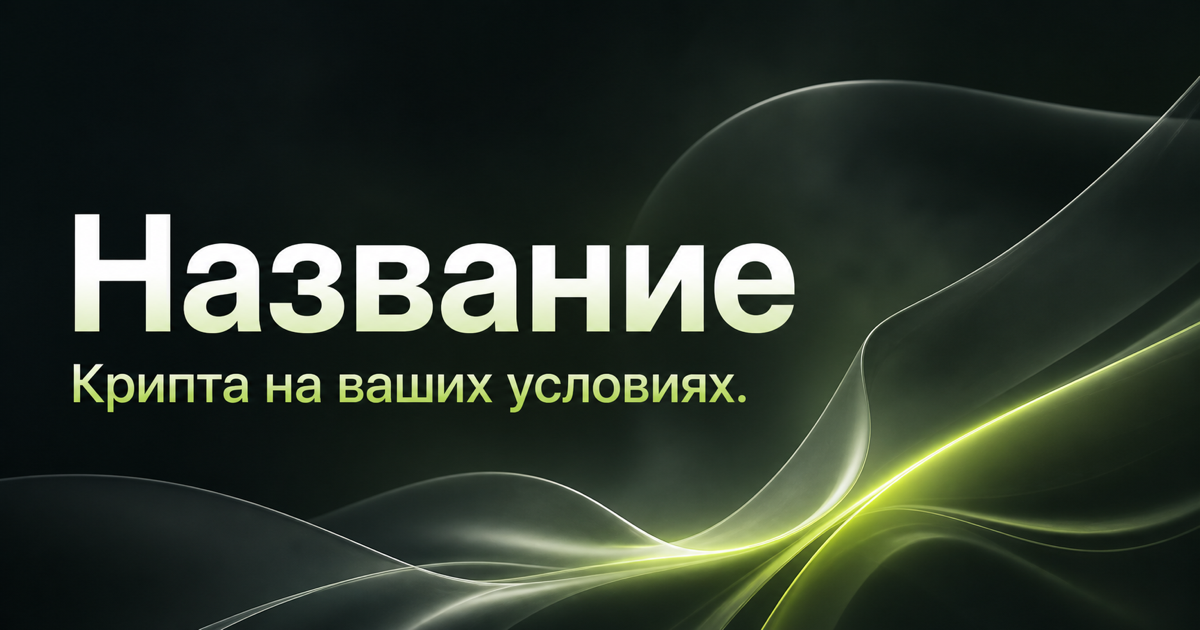
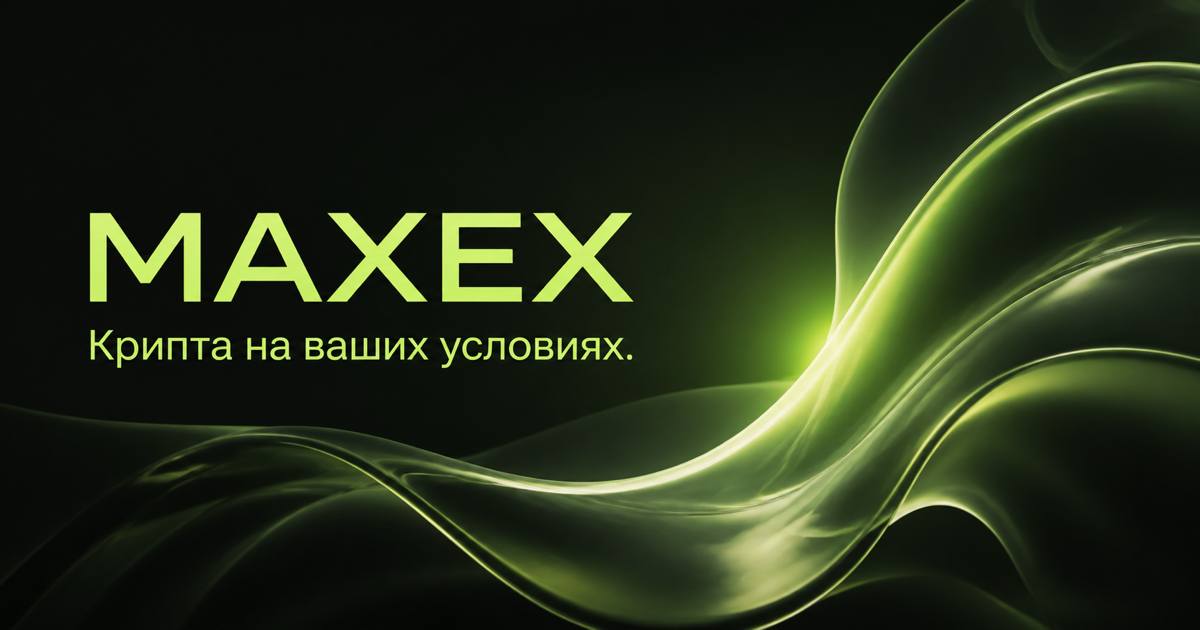
Rename demo brand to MAXEX

diff --git a/index.html b/index.html
@@ -6,7 +6,15 @@
     <meta name="robots" content="noindex,nofollow,noarchive,nosnippet,noimageindex" />
     <meta name="googlebot" content="noindex,nofollow,noarchive,nosnippet,noimageindex" />
     <meta name="description" content="Статическая демонстрация интерфейса криптообменника." />
-    <title>Название — демонстрация обменника</title>
+    <meta property="og:title" content="MAXEX — обмен криптовалюты" />
+    <meta property="og:description" content="Крипта на ваших условиях. Прозрачный курс и поддержка оператора." />
+    <meta property="og:image" content="https://kibosh13.github.io/crypto-obmen-demo/assets/og.png" />
+    <meta property="og:type" content="website" />
+    <meta name="twitter:card" content="summary_large_image" />
+    <meta name="twitter:title" content="MAXEX — обмен криптовалюты" />
+    <meta name="twitter:description" content="Крипта на ваших условиях. Прозрачный курс и поддержка оператора." />
+    <meta name="twitter:image" content="https://kibosh13.github.io/crypto-obmen-demo/assets/og.png" />
+    <title>MAXEX — демонстрация обменника</title>
     <link rel="icon" href="./assets/favicon.svg" />
     <link rel="stylesheet" href="./styles.css" />
   </head>
@@ -14,7 +22,7 @@
     <main class="site-shell">
       <div class="hero-art" aria-hidden="true"></div>
       <header class="header page-width">
-        <a class="brand" href="#top" aria-label="Название обменника"><i>Н</i><span>Название</span></a>
+        <a class="brand" href="#top" aria-label="MAXEX — обмен криптовалюты"><i>M</i><span>MAXEX</span></a>
         <nav aria-label="Основная навигация">
           <a href="#exchange">Обмен</a><a href="#how">Как это работает</a><a href="#rates">Курсы</a>
         </nav>
@@ -44,7 +52,7 @@
 
       <section class="light-surface">
         <section class="benefits page-width">
-          <div class="section-heading"><small>Почему «Название»</small><h2>Результат известен<br />до начала сделки.</h2><p>В рабочей версии каждую заявку сопровождает оператор, а условия сохраняются в защищённой базе.</p></div>
+          <div class="section-heading"><small>Почему MAXEX</small><h2>Результат известен<br />до начала сделки.</h2><p>В рабочей версии каждую заявку сопровождает оператор, а условия сохраняются в защищённой базе.</p></div>
           <div class="benefit-grid"><article><span>01</span><b>◇</b><h3>Прозрачный расчёт</h3><p>Курс, комиссия и итоговая сумма видны до отправки заявки.</p></article><article><span>02</span><b>◉</b><h3>Человек на связи</h3><p>Оператор уточняет детали и сопровождает обмен на каждом шаге.</p></article><article><span>03</span><b>✓</b><h3>Контроль сделки</h3><p>Обмен начинается только после подтверждения условий клиентом.</p></article></div>
         </section>
 
@@ -55,7 +63,7 @@
         <section class="cta page-width"><div><small>Особый запрос?</small><h2>Обсудим индивидуальный курс и удобный формат обмена.</h2><p>В полной версии оператор предложит решение под вашу сумму и направление.</p><button id="openModal2" type="button">Посмотреть форму <span>→</span></button></div><div class="orbit" aria-hidden="true"><i></i><i></i><i></i></div></section>
       </section>
 
-      <footer class="footer page-width"><div><a class="brand" href="#top"><i>Н</i><span>Название</span></a><p>Статическая демонстрация. Не является публичной офертой и не выполняет финансовые операции.</p></div><div><a href="./admin/">Панель оператора — демо ↗</a><span>GitHub Pages · noindex</span></div></footer>
+      <footer class="footer page-width"><div><a class="brand" href="#top"><i>M</i><span>MAXEX</span></a><p>Статическая демонстрация. Не является публичной офертой и не выполняет финансовые операции.</p></div><div><a href="./admin/">Панель оператора — демо ↗</a><span>GitHub Pages · noindex</span></div></footer>
     </main>
 
     <div id="modal" class="modal" hidden>

diff --git a/admin/index.html b/admin/index.html
@@ -5,13 +5,13 @@
     <meta name="viewport" content="width=device-width, initial-scale=1" />
     <meta name="robots" content="noindex,nofollow,noarchive,nosnippet,noimageindex" />
     <meta name="googlebot" content="noindex,nofollow,noarchive,nosnippet,noimageindex" />
-    <title>Название — демонстрация админ-панели</title>
+    <title>MAXEX — демонстрация админ-панели</title>
     <link rel="icon" href="../assets/favicon.svg" />
     <link rel="stylesheet" href="../styles.css" />
   </head>
   <body class="admin-body">
     <main class="admin-shell">
-      <aside class="admin-sidebar"><a class="brand" href="../"><i>Н</i><span>Название</span></a><nav><button class="active">▦ <span>Обзор</span></button><button>≡ <span>Заявки</span><i>2</i></button><button>◈ <span>Направления</span></button></nav><a class="back-site" href="../">↗ <span>Открыть сайт</span></a></aside>
+      <aside class="admin-sidebar"><a class="brand" href="../"><i>M</i><span>MAXEX</span></a><nav><button class="active">▦ <span>Обзор</span></button><button>≡ <span>Заявки</span><i>2</i></button><button>◈ <span>Направления</span></button></nav><a class="back-site" href="../">↗ <span>Открыть сайт</span></a></aside>
       <section class="admin-main">
         <header class="admin-header"><div><small>Панель управления</small><h1>Обзор</h1></div><span class="demo-badge">Статическая демоверсия</span></header>
         <div class="demo-warning"><strong>Данные не сохраняются.</strong> Сервер, база заявок, авторизация и изменение курсов отключены на GitHub Pages.</div>
